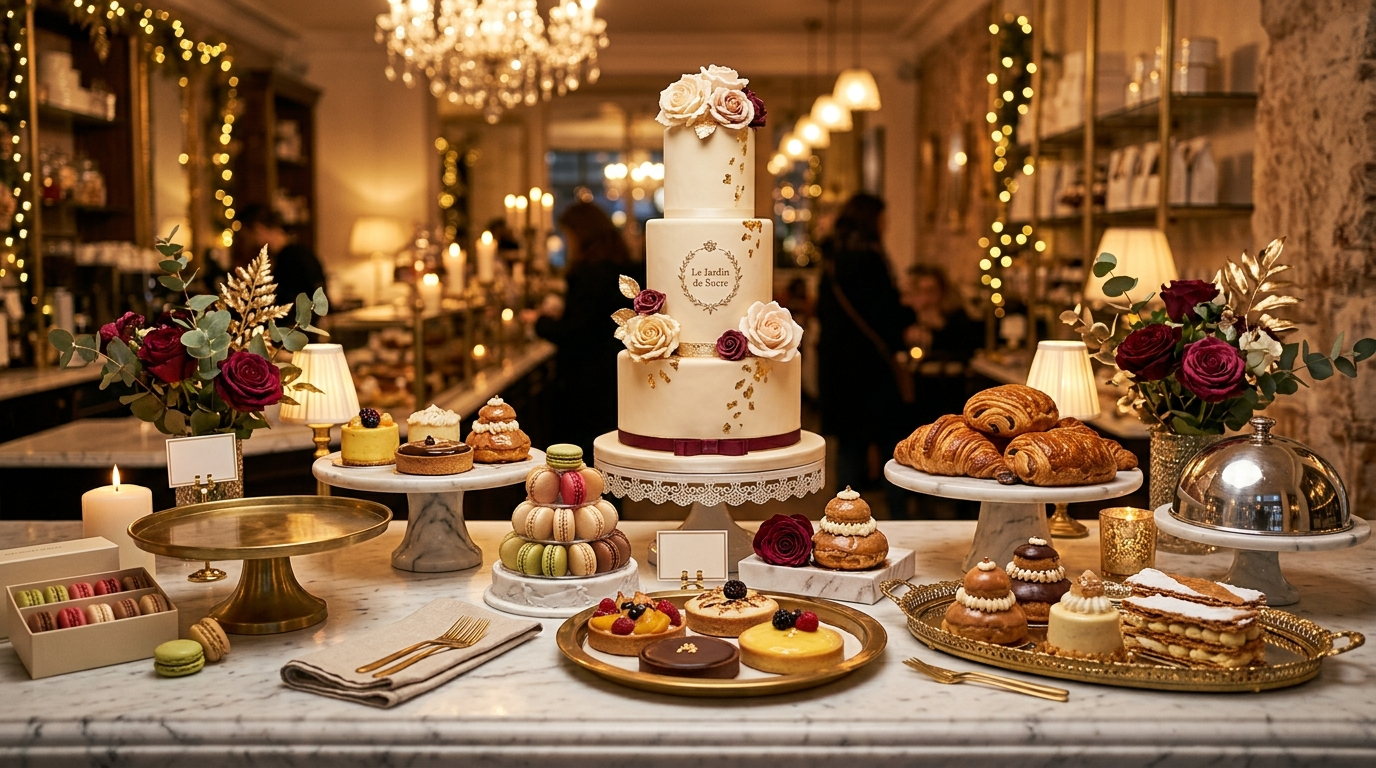
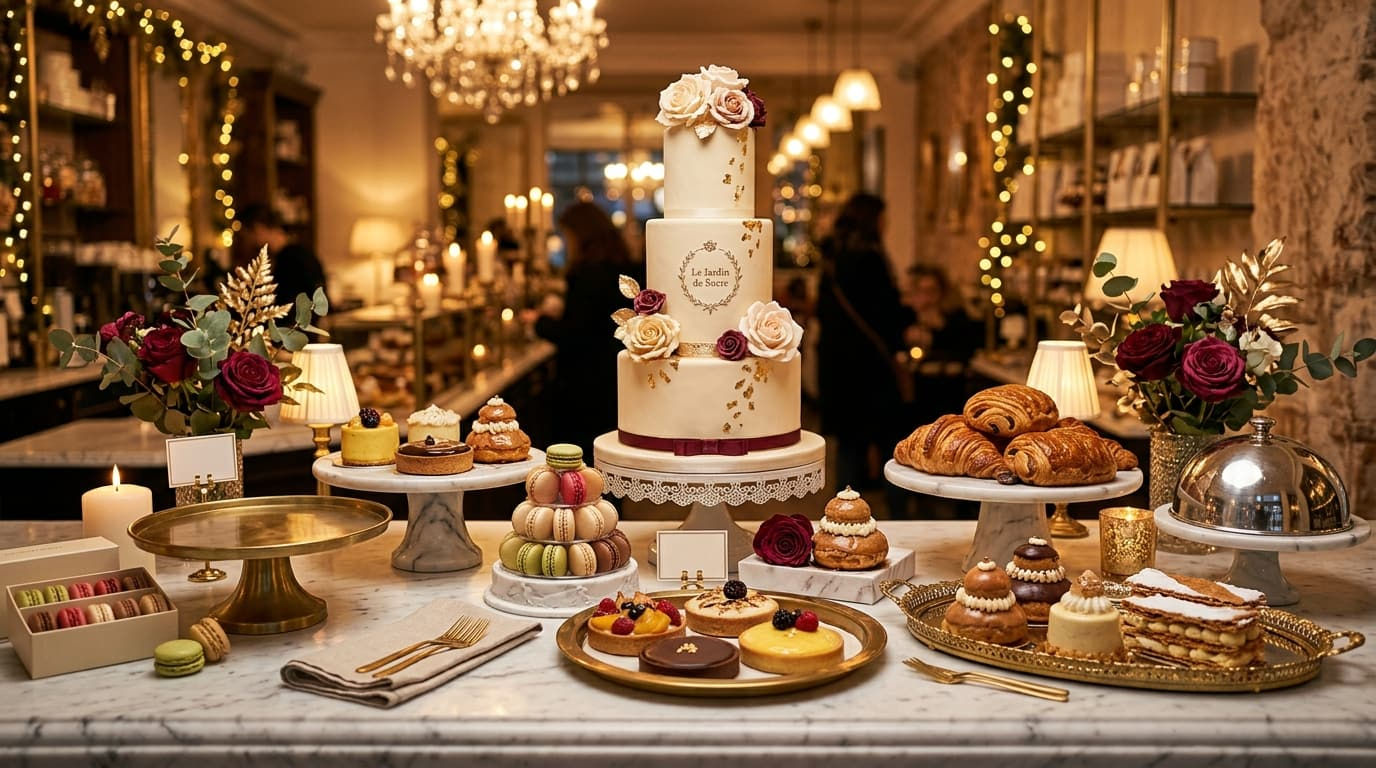
Website: load fast on phones
Photos resized and recompressed (4.6 MB to 0.66 MB, same names); photos
below the first screen load lazily; the loading screen no longer waits for
every photo plus 1.2 s; the sparkle effect is off on touch screens and its
drawing loop sleeps when idle. Browsers and the CDN keep images, CSS, JS and
the product list. Slow 4G phone: usable 4.1 s to 1.3 s, loaded 25 s to 5 s.

diff --git a/web/public/site/index.html b/web/public/site/index.html
@@ -53,7 +53,7 @@
     <!-- Hero Section -->
     <section id="hero">
         <div class="hero-bg">
-            <img src="/site/images/hero.jpg" alt="La Patisserie Madras bakery display" class="hero-img">
+            <img src="/site/images/hero.jpg" alt="La Patisserie Madras bakery display" class="hero-img" fetchpriority="high" decoding="async">
             <div class="hero-overlay"></div>
         </div>
         <div class="hero-particles" id="heroParticles"></div>
@@ -100,10 +100,10 @@
             <div class="about-grid">
                 <div class="about-images" data-animate="fade-right">
                     <div class="about-img-main">
-                        <img src="/site/images/pastries.jpg" alt="Fresh croissants and pastries">
+                        <img src="/site/images/pastries.jpg" alt="Fresh croissants and pastries" loading="lazy" decoding="async">
                     </div>
                     <div class="about-img-accent">
-                        <img src="/site/images/macarons.jpg" alt="Colorful French macarons">
+                        <img src="/site/images/macarons.jpg" alt="Colorful French macarons" loading="lazy" decoding="async">
                     </div>
                     <div class="about-badge-float">
                         <span class="badge-number">100%</span>
@@ -155,7 +155,7 @@
             <div class="specialties-grid" id="productsGrid">
                 <div class="specialty-card" data-animate="fade-up" data-delay="0">
                     <div class="card-image">
-                        <img src="/site/images/chocolate.jpg" alt="Dark Chocolate Ganache Cake">
+                        <img src="/site/images/chocolate.jpg" alt="Dark Chocolate Ganache Cake" loading="lazy" decoding="async">
                         <div class="card-overlay">
                             <span class="card-tag">Bestseller</span>
                         </div>
@@ -176,7 +176,7 @@
 
                 <div class="specialty-card" data-animate="fade-up" data-delay="150">
                     <div class="card-image">
-                        <img src="/site/images/vanilla.jpg" alt="Vanilla Dream Cake">
+                        <img src="/site/images/vanilla.jpg" alt="Vanilla Dream Cake" loading="lazy" decoding="async">
                         <div class="card-overlay">
                             <span class="card-tag">Popular</span>
                         </div>
@@ -197,7 +197,7 @@
 
                 <div class="specialty-card" data-animate="fade-up" data-delay="300">
                     <div class="card-image">
-                        <img src="/site/images/redvelvet.jpg" alt="Red Velvet Cake">
+                        <img src="/site/images/redvelvet.jpg" alt="Red Velvet Cake" loading="lazy" decoding="async">
                         <div class="card-overlay">
                             <span class="card-tag">Chef's Pick</span>
                         </div>
@@ -218,7 +218,7 @@
 
                 <div class="specialty-card" data-animate="fade-up" data-delay="100">
                     <div class="card-image">
-                        <img src="/site/images/macarons.jpg" alt="French Macarons Collection">
+                        <img src="/site/images/macarons.jpg" alt="French Macarons Collection" loading="lazy" decoding="async">
                         <div class="card-overlay">
                             <span class="card-tag">Gift Box</span>
                         </div>
@@ -239,7 +239,7 @@
 
                 <div class="specialty-card" data-animate="fade-up" data-delay="250">
                     <div class="card-image">
-                        <img src="/site/images/pastries.jpg" alt="Butter Croissants">
+                        <img src="/site/images/pastries.jpg" alt="Butter Croissants" loading="lazy" decoding="async">
                         <div class="card-overlay">
                             <span class="card-tag">Morning Fav</span>
                         </div>
@@ -302,37 +302,37 @@
             </div>
             <div class="gallery-grid" data-animate="fade-up">
                 <div class="gallery-item gi-1">
-                    <img src="/site/images/hero.jpg" alt="Patisserie display">
+                    <img src="/site/images/hero.jpg" alt="Patisserie display" loading="lazy" decoding="async">
                     <div class="gallery-hover">
                         <span>Our Atelier</span>
                     </div>
                 </div>
                 <div class="gallery-item gi-2">
-                    <img src="/site/images/chocolate.jpg" alt="Chocolate cake">
+                    <img src="/site/images/chocolate.jpg" alt="Chocolate cake" loading="lazy" decoding="async">
                     <div class="gallery-hover">
                         <span>Chocolate Bliss</span>
                     </div>
                 </div>
                 <div class="gallery-item gi-3">
-                    <img src="/site/images/macarons.jpg" alt="Macarons">
+                    <img src="/site/images/macarons.jpg" alt="Macarons" loading="lazy" decoding="async">
                     <div class="gallery-hover">
                         <span>Macaron Art</span>
                     </div>
                 </div>
                 <div class="gallery-item gi-4">
-                    <img src="/site/images/vanilla.jpg" alt="Vanilla cake">
+                    <img src="/site/images/vanilla.jpg" alt="Vanilla cake" loading="lazy" decoding="async">
                     <div class="gallery-hover">
                         <span>Vanilla Elegance</span>
                     </div>
                 </div>
                 <div class="gallery-item gi-5">
-                    <img src="/site/images/redvelvet.jpg" alt="Red velvet">
+                    <img src="/site/images/redvelvet.jpg" alt="Red velvet" loading="lazy" decoding="async">
                     <div class="gallery-hover">
                         <span>Red Velvet Love</span>
                     </div>
                 </div>
                 <div class="gallery-item gi-6">
-                    <img src="/site/images/pastries.jpg" alt="Pastries">
+                    <img src="/site/images/pastries.jpg" alt="Pastries" loading="lazy" decoding="async">
                     <div class="gallery-hover">
                         <span>Morning Pastries</span>
                     </div>
@@ -523,7 +523,7 @@
     <div id="imageLightbox" class="lightbox" aria-hidden="true" role="dialog">
         <button class="lightbox-close" id="lightboxClose" aria-label="Close image modal">&times;</button>
         <div class="lightbox-content">
-            <img id="lightboxImg" src="" alt="Gallery Image Preview">
+            <img id="lightboxImg" src="" alt="Gallery Image Preview" loading="lazy" decoding="async">
             <div id="lightboxCaption" class="lightbox-caption"></div>
         </div>
     </div>

diff --git a/web/public/site/script.js b/web/public/site/script.js
@@ -5,37 +5,46 @@
 document.addEventListener('DOMContentLoaded', () => {
 
     // ---------- Preloader ----------
+    // Shown only briefly: the page is usable as soon as the HTML is in, without waiting for every photo.
     const preloader = document.getElementById('preloader');
-    window.addEventListener('load', () => {
-        setTimeout(() => {
-            preloader.classList.add('hidden');
-            document.body.style.overflow = '';
-            initScrollAnimations();
-        }, 1200);
-    });
-
-    // Fallback in case load fires before DOMContentLoaded listener
-    setTimeout(() => {
-        if (!preloader.classList.contains('hidden')) {
-            preloader.classList.add('hidden');
-            document.body.style.overflow = '';
-            initScrollAnimations();
-        }
-    }, 3000);
+    let revealed = false;
+    function reveal() {
+        if (revealed) return;
+        revealed = true;
+        preloader.classList.add('hidden');
+        document.body.style.overflow = '';
+        initScrollAnimations();
+    }
+    setTimeout(reveal, 350);
 
     // ---------- Sparkle Cursor Effect ----------
     const sparkleCanvas = document.getElementById('sparkle-canvas');
     const ctx = sparkleCanvas.getContext('2d');
     let sparkles = [];
 
+    // Only for a mouse (not phones), only when motion is welcome, and the drawing loop sleeps
+    // while there is nothing to draw.
+    const sparklesOn = window.matchMedia('(hover: hover) and (pointer: fine)').matches
+        && !window.matchMedia('(prefers-reduced-motion: reduce)').matches;
+    let sparkleLoop = false;
+
     function resizeCanvas() {
         sparkleCanvas.width = window.innerWidth;
         sparkleCanvas.height = window.innerHeight;
     }
-    resizeCanvas();
-    window.addEventListener('resize', resizeCanvas);
+    if (sparklesOn) {
+        resizeCanvas();
+        window.addEventListener('resize', resizeCanvas);
+    } else {
+        sparkleCanvas.style.display = 'none';
+    }
 
     document.addEventListener('mousemove', (e) => {
+        if (!sparklesOn) return;
+        if (!sparkleLoop) {
+            sparkleLoop = true;
+            requestAnimationFrame(animateSparkles);
+        }
         if (Math.random() > 0.55) {
             for (let i = 0; i < 2; i++) {
                 sparkles.push({
@@ -81,9 +90,9 @@ document.addEventListener('DOMContentLoaded', () => {
             s.size *= 0.98;
             drawSparkle(s);
         });
-        requestAnimationFrame(animateSparkles);
+        if (sparkles.length) requestAnimationFrame(animateSparkles);
+        else sparkleLoop = false;
     }
-    animateSparkles();
 
     // ---------- Navbar Scroll ----------
     const navbar = document.getElementById('navbar');
@@ -520,9 +529,9 @@ document.addEventListener('DOMContentLoaded', () => {
     }
 
     // ---------- Subtle Parallax on Scroll ----------
+    const heroImg = document.querySelector('.hero-img');
     window.addEventListener('scroll', () => {
         const scrolled = window.scrollY;
-        const heroImg = document.querySelector('.hero-img');
         if (heroImg && scrolled < window.innerHeight) {
             // very gentle parallax; CSS animation handles the base zoom
             heroImg.style.transform = `scale(${1.0 + scrolled * 0.00008}) translateY(${scrolled * 0.18}px)`;

diff --git a/web/next.config.ts b/web/next.config.ts
@@ -6,6 +6,19 @@ const nextConfig: NextConfig = {
   async rewrites() {
     return [{ source: "/", destination: "/site/index.html" }];
   },
+  // Let browsers and Vercel's CDN keep the website's files instead of asking again on every visit.
+  async headers() {
+    return [
+      {
+        source: "/site/images/:path*",
+        headers: [{ key: "Cache-Control", value: "public, max-age=86400, stale-while-revalidate=604800" }],
+      },
+      {
+        source: "/site/:file(style.css|script.js)",
+        headers: [{ key: "Cache-Control", value: "public, max-age=600, stale-while-revalidate=86400" }],
+      },
+    ];
+  },
 };
 
 export default nextConfig;

diff --git a/web/src/app/api/site/catalogue/route.ts b/web/src/app/api/site/catalogue/route.ts
@@ -9,6 +9,6 @@ export async function GET() {
   }
   return Response.json(
     { products: data ?? [] },
-    { headers: { "Cache-Control": "public, s-maxage=60, stale-while-revalidate=300" } },
+    { headers: { "Cache-Control": "public, s-maxage=300, stale-while-revalidate=86400" } },
   );
 }
